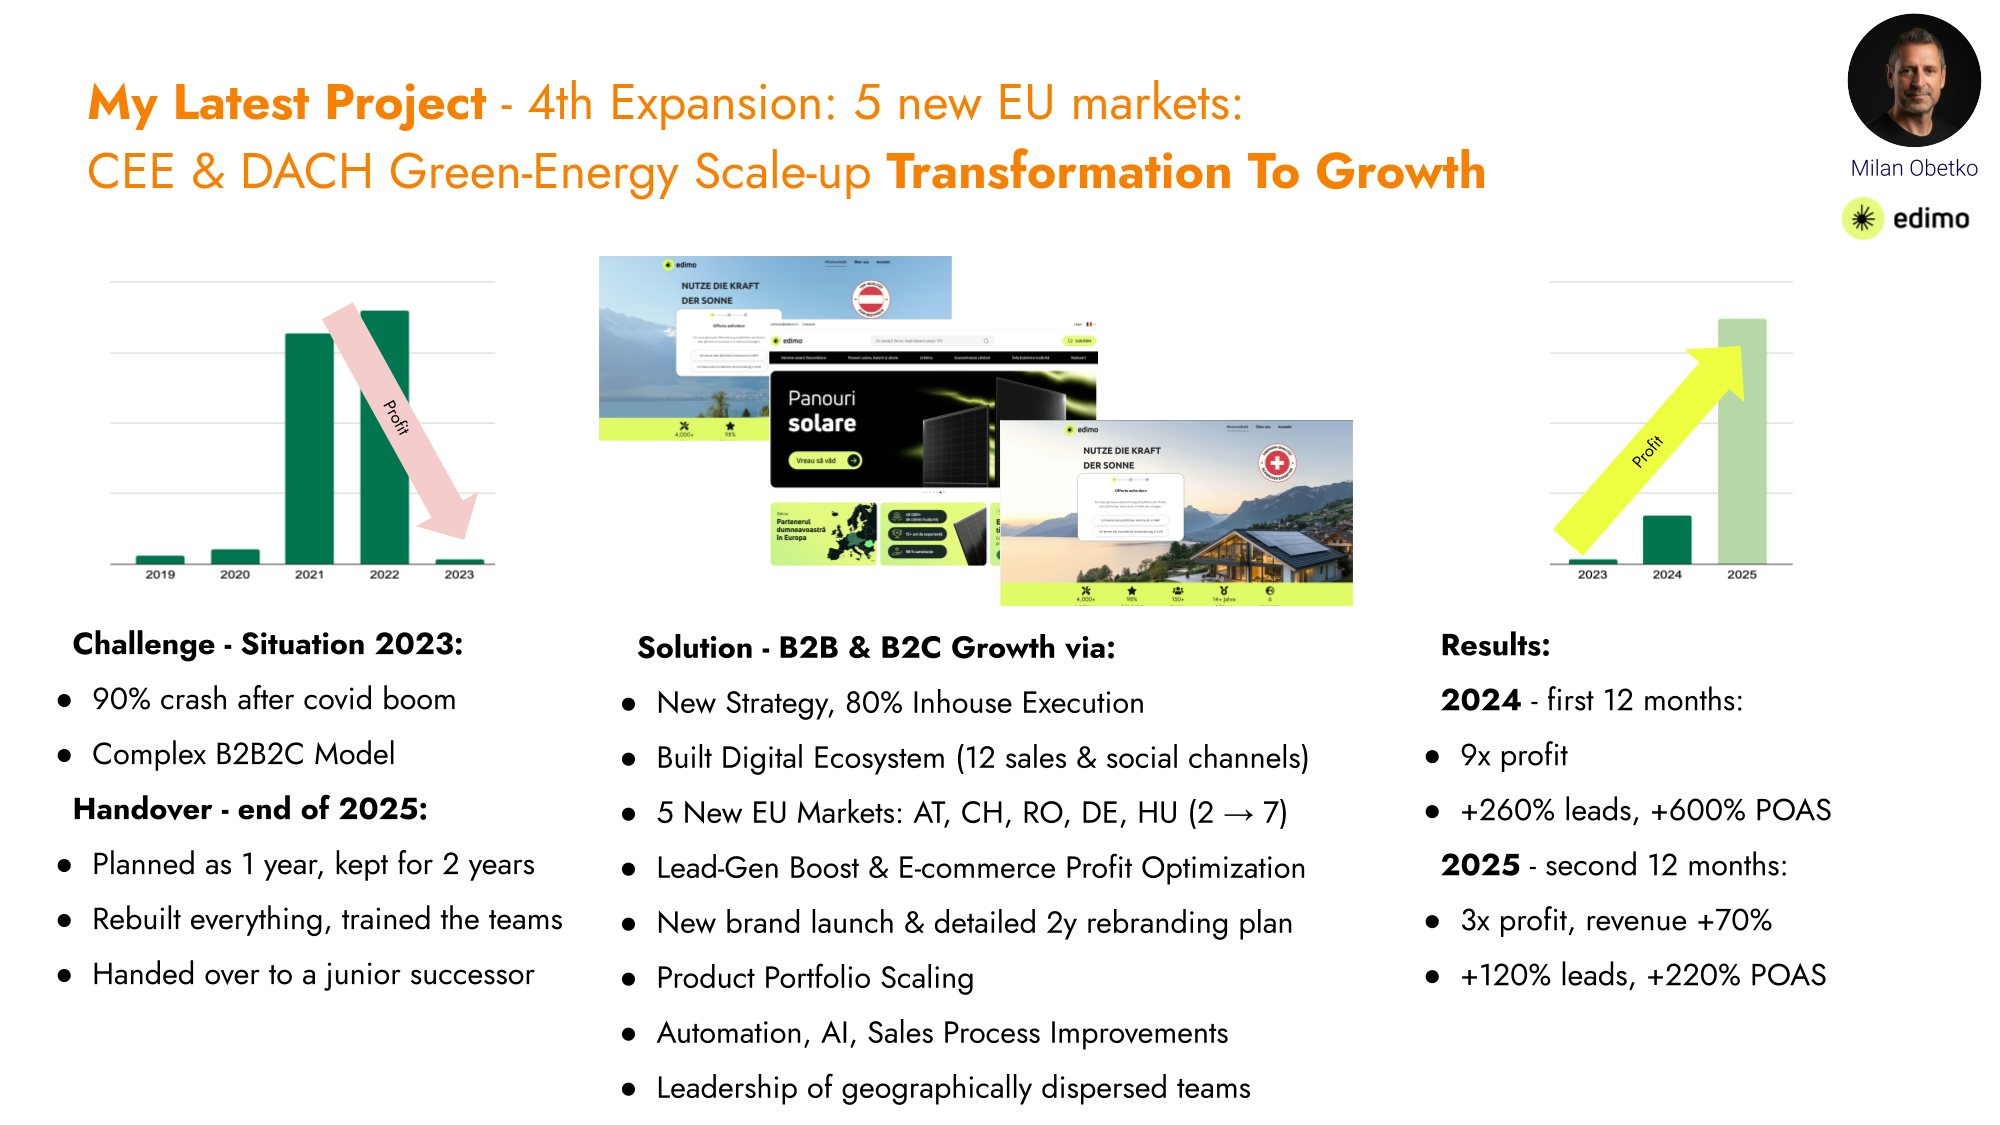
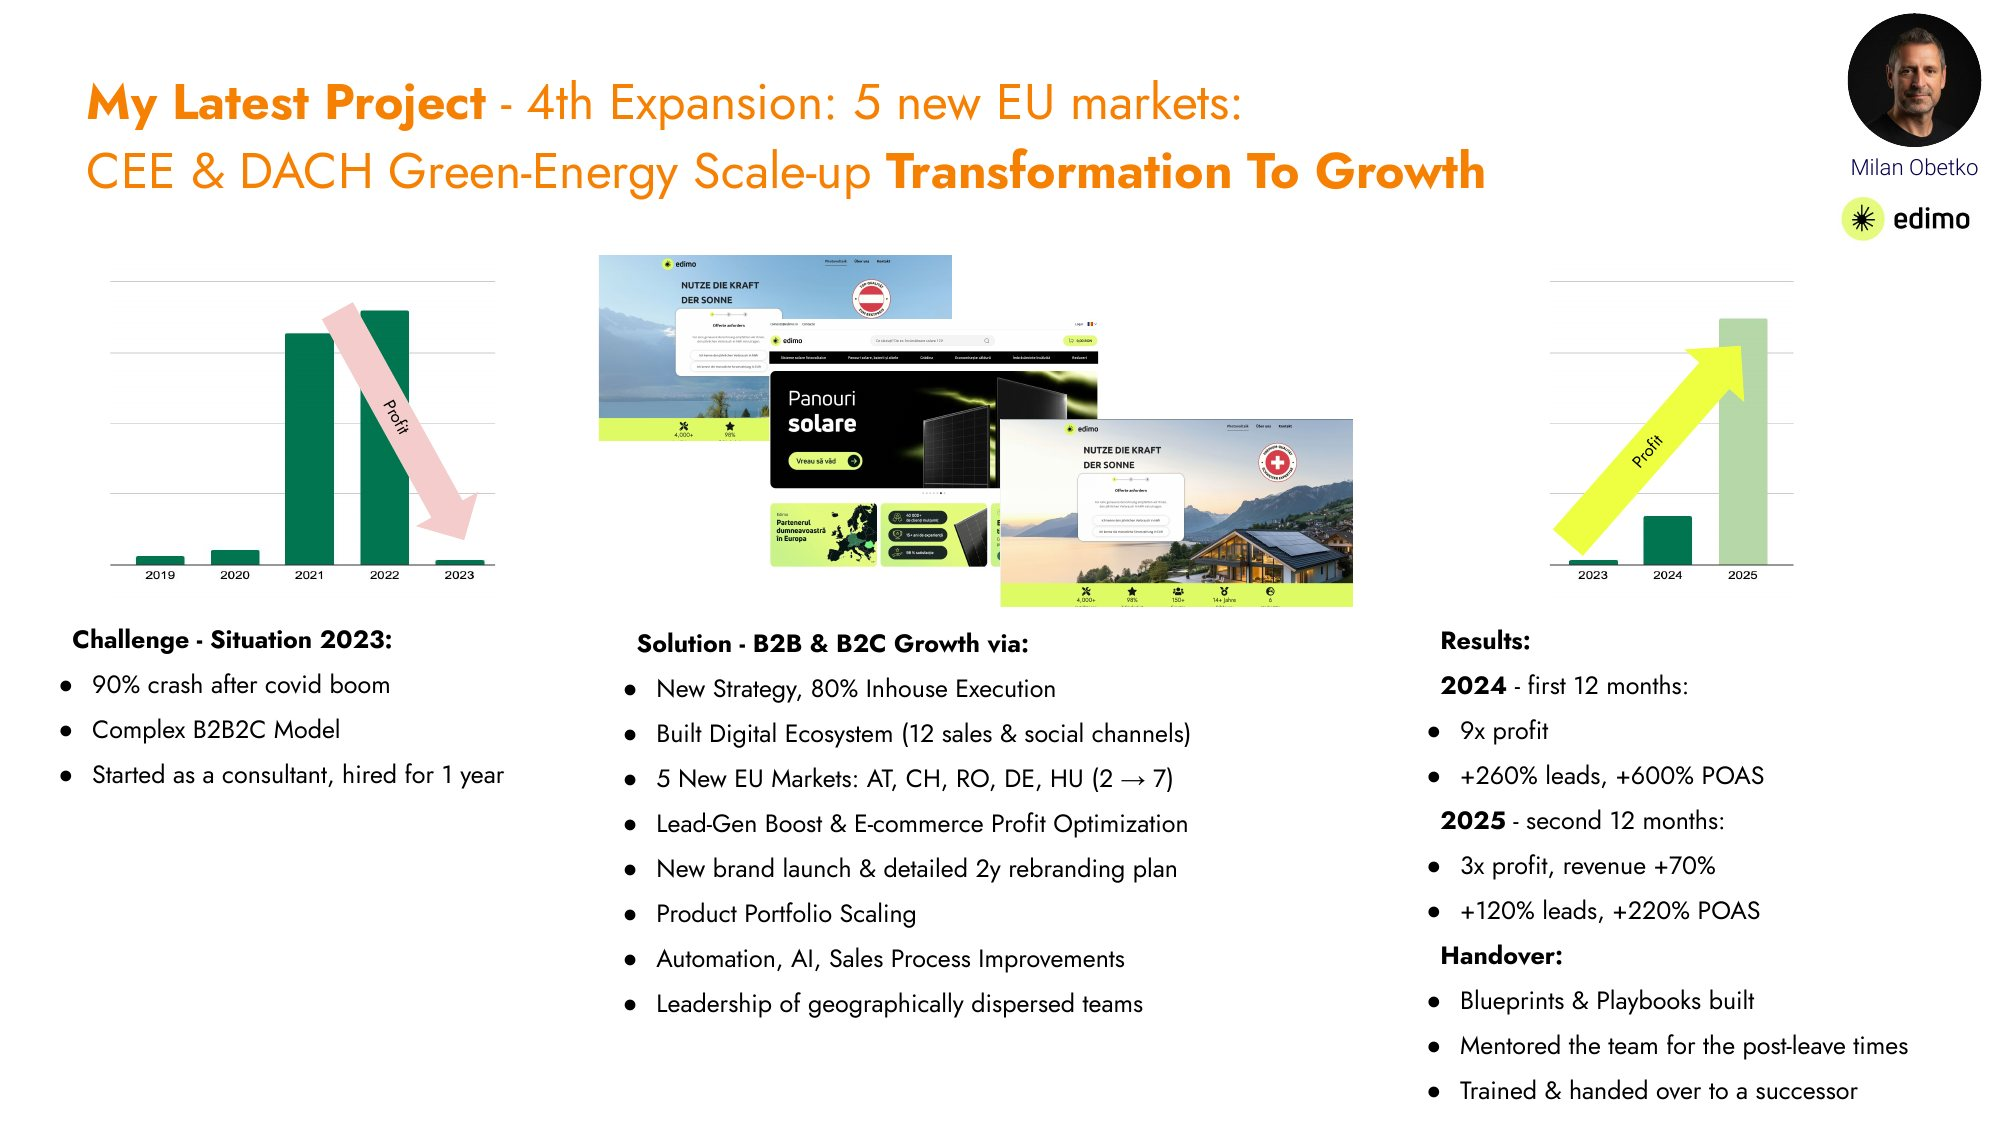
puella-cmo: final Edimo deck (slides + PDF); handover wording as in the deck
Claude-Session: https://claude.ai/code/session_01ANGM1QGY7x3AvuPiXAwH37

diff --git a/edimo-case-study.html b/edimo-case-study.html
@@ -423,7 +423,7 @@ body{font-size:18px}
           <h3 class="sub-head">Handover</h3>
           <ol class="steps">
             <li><span class="n">01</span><span>Blueprints &amp; playbooks built</span></li>
-            <li><span class="n">02</span><span>Mentored the team</span></li>
+            <li><span class="n">02</span><span>Mentored the team for the post-leave times</span></li>
             <li><span class="n">03</span><span>Trained &amp; handed over to a successor</span></li>
           </ol>
         </div>
